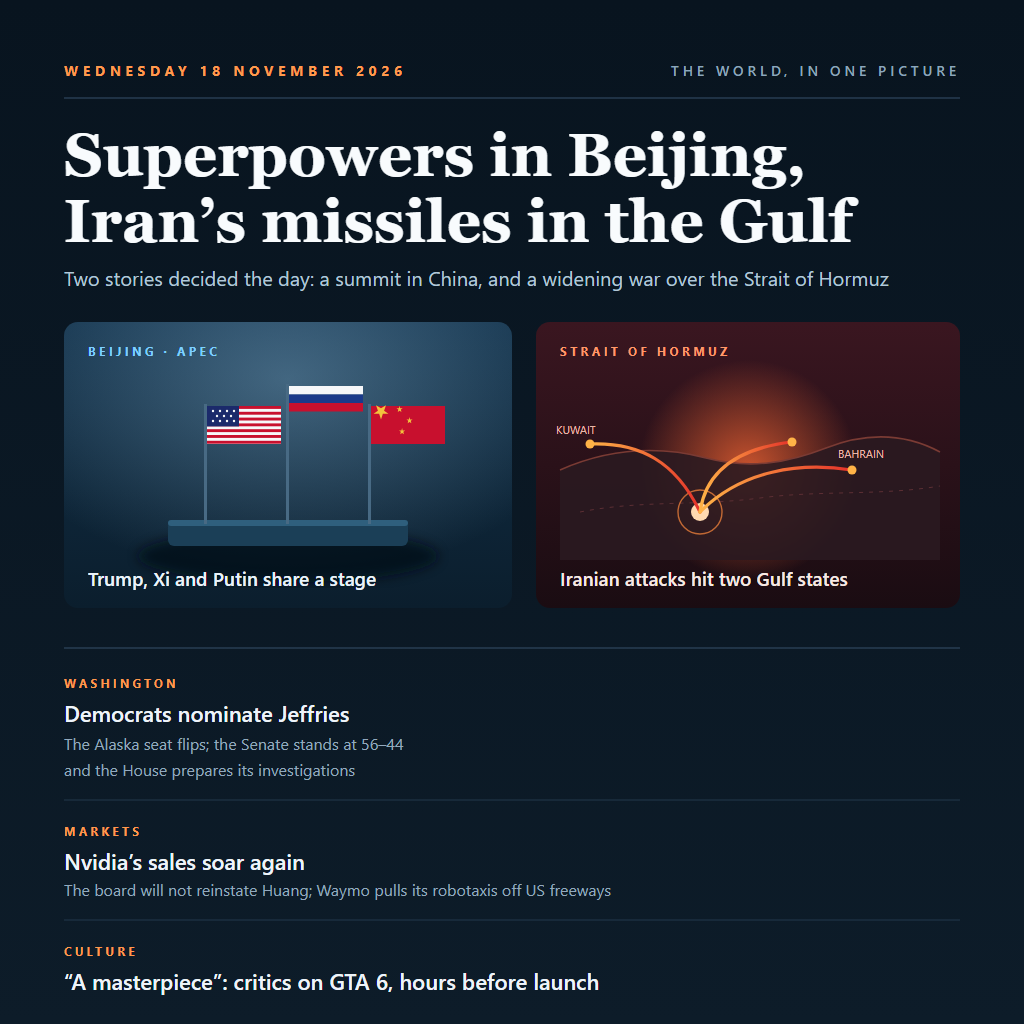
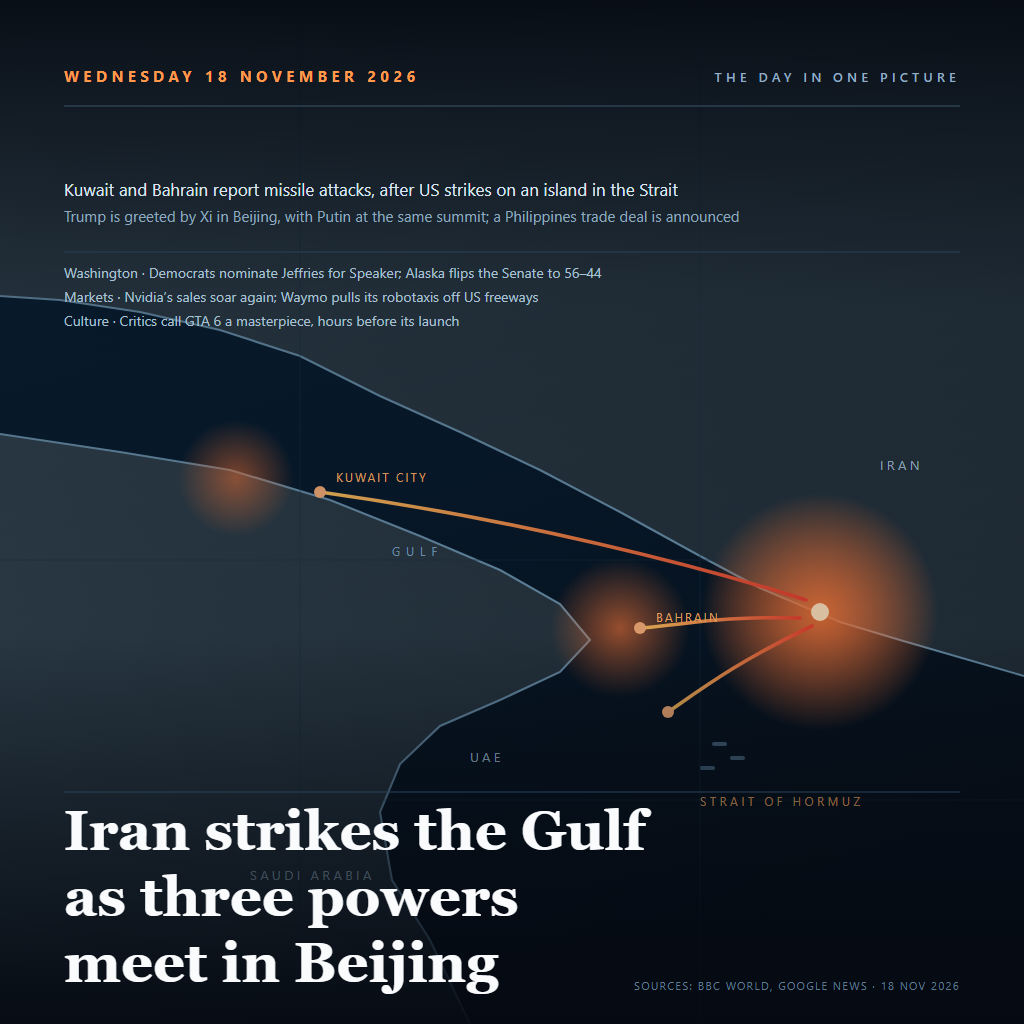
Redraw the plate as a Gulf map: Iran's launch site and the paths to Kuwait and Bahrain

diff --git a/plate.html b/plate.html
@@ -1,0 +1,125 @@
+<!DOCTYPE html>
+<html lang="en">
+<head>
+<meta charset="utf-8">
+<title>The world, 18 November 2026</title>
+<style>
+  @page { size: 1024px 1024px; margin: 0; }
+  html, body { margin: 0; padding: 0; width: 1024px; height: 1024px; overflow: hidden; background: #050a12; }
+</style>
+</head>
+<body>
+<svg xmlns="http://www.w3.org/2000/svg" width="1024" height="1024" viewBox="0 0 1024 1024">
+  <defs>
+    <linearGradient id="water" x1="0" y1="0" x2="0.3" y2="1">
+      <stop offset="0" stop-color="#0a2439"/>
+      <stop offset="0.55" stop-color="#071a2c"/>
+      <stop offset="1" stop-color="#060f19"/>
+    </linearGradient>
+    <linearGradient id="land" x1="0" y1="0" x2="1" y2="1">
+      <stop offset="0" stop-color="#31424e"/>
+      <stop offset="1" stop-color="#222f39"/>
+    </linearGradient>
+    <linearGradient id="hot" x1="0" y1="0" x2="1" y2="0">
+      <stop offset="0" stop-color="#ffc45e"/>
+      <stop offset="1" stop-color="#e8402f"/>
+    </linearGradient>
+    <radialGradient id="flash" cx="0.5" cy="0.5" r="0.5">
+      <stop offset="0" stop-color="#ff7a3a" stop-opacity="0.85"/>
+      <stop offset="1" stop-color="#ff7a3a" stop-opacity="0"/>
+    </radialGradient>
+    <linearGradient id="fade" x1="0" y1="0" x2="0" y2="1">
+      <stop offset="0" stop-color="#050a12" stop-opacity="0.92"/>
+      <stop offset="0.30" stop-color="#050a12" stop-opacity="0.25"/>
+      <stop offset="0.62" stop-color="#050a12" stop-opacity="0.15"/>
+      <stop offset="1" stop-color="#050a12" stop-opacity="0.96"/>
+    </linearGradient>
+    <filter id="soft"><feGaussianBlur stdDeviation="10"/></filter>
+  </defs>
+
+  <rect width="1024" height="1024" fill="url(#water)"/>
+
+  <!-- ------- the gulf: iran across the top, arabia below ------- -->
+  <g>
+    <path d="M0 0 H1024 V676 L900 640 L840 622 L760 588 L700 556 L620 512 L540 470 L460 432
+             L380 396 L300 356 L220 330 L140 312 L60 300 L0 296 Z" fill="url(#land)"/>
+    <path d="M0 296 L60 300 L140 312 L220 330 L300 356 L380 396 L460 432 L540 470 L620 512
+             L700 556 L760 588 L840 622 L900 640 L1024 676" fill="none" stroke="#6b93ae" stroke-width="2.1"/>
+    <path d="M0 434 L120 452 L230 470 L330 500 L420 536 L500 570 L560 604 L590 640 L560 672
+             L500 700 L440 726 L400 764 L380 812 L392 880 L430 940 L470 1024 H0 Z" fill="url(#land)"/>
+    <path d="M0 434 L120 452 L230 470 L330 500 L420 536 L500 570 L560 604 L590 640 L560 672
+             L500 700 L440 726 L400 764 L380 812 L392 880 L430 940 L470 1024" fill="none" stroke="#6b93ae" stroke-width="2.1"/>
+    <g stroke="#1a3346" stroke-width="1" opacity="0.5">
+      <path d="M0 560 H1024"/><path d="M0 800 H1024"/><path d="M300 0 V1024"/><path d="M700 0 V1024"/>
+    </g>
+  </g>
+
+  <!-- ------- strikes, from the iranian coast ------- -->
+  <g>
+    <circle cx="820" cy="612" r="118" fill="url(#flash)"/>
+    <circle cx="820" cy="612" r="120" fill="url(#flash)" opacity="0.5"/>
+    <circle cx="620" cy="628" r="70" fill="url(#flash)" opacity="0.8"/>
+    <circle cx="236" cy="478" r="58" fill="url(#flash)" opacity="0.7"/>
+    <g stroke="url(#hot)" stroke-width="3.6" fill="none" stroke-linecap="round">
+      <path d="M806 600 C700 566 520 520 320 492"/>
+      <path d="M800 618 C720 616 690 624 640 628"/>
+      <path d="M812 626 C740 660 700 690 668 712"/>
+    </g>
+    <g fill="#ffe1bb"><circle cx="820" cy="612" r="9"/></g>
+    <g fill="#ffb27a"><circle cx="320" cy="492" r="6"/><circle cx="640" cy="628" r="6"/><circle cx="668" cy="712" r="6"/></g>
+  </g>
+
+  <!-- ------- place labels ------- -->
+  <g font-family="Segoe UI, Arial, sans-serif" font-size="11.5" letter-spacing="2.2" fill="#ffb86b">
+    <text x="336" y="482">KUWAIT CITY</text>
+    <text x="656" y="622">BAHRAIN</text>
+    <text x="392" y="556" fill="#7fa6c2" letter-spacing="6">GULF</text>
+  </g>
+  <g font-family="Segoe UI, Arial, sans-serif" font-size="13" letter-spacing="3.4" fill="#a7c2d6">
+    <text x="880" y="470">IRAN</text>
+        
+    <text x="700" y="806" fill="#ffb86b" font-size="12">STRAIT OF HORMUZ</text>
+    <text x="250" y="880">SAUDI ARABIA</text>
+    <text x="470" y="762">UAE</text>
+  </g>
+  <g fill="#4d718a" opacity="0.9">
+    <rect x="712" y="742" width="15" height="4" rx="2"/>
+    <rect x="730" y="756" width="15" height="4" rx="2"/>
+    <rect x="700" y="766" width="15" height="4" rx="2"/>
+  </g>
+
+  <rect width="1024" height="1024" fill="url(#fade)"/>
+
+  <!-- ------- masthead ------- -->
+  <g font-family="Segoe UI, Arial, sans-serif">
+    <text x="64" y="82" fill="#ff9a4d" font-size="14.5" letter-spacing="4.8" font-weight="700">WEDNESDAY 18 NOVEMBER 2026</text>
+    <text x="960" y="82" fill="#93aec4" font-size="13" letter-spacing="4.2" text-anchor="end" font-weight="600">THE DAY IN ONE PICTURE</text>
+    <line x1="64" y1="106" x2="960" y2="106" stroke="#38566e" stroke-width="1"/>
+  </g>
+
+  <!-- ------- headline ------- -->
+  <g font-family="Georgia, Times New Roman, serif">
+    <text x="64" y="850" fill="#f9fbfd" font-size="56" font-weight="700">Iran strikes the Gulf</text>
+    <text x="64" y="916" fill="#f9fbfd" font-size="56" font-weight="700">as three powers</text>
+    <text x="64" y="982" fill="#f9fbfd" font-size="56" font-weight="700">meet in Beijing</text>
+  </g>
+
+  <!-- ------- the day's other lines ------- -->
+  <g font-family="Segoe UI, Arial, sans-serif">
+    <text x="64" y="196" fill="#dbe7f0" font-size="17">Kuwait and Bahrain report missile attacks, after US strikes on an island in the Strait</text>
+    <text x="64" y="222" fill="#8ea9bf" font-size="15">Trump is greeted by Xi in Beijing, with Putin at the same summit; a Philippines trade deal is announced</text>
+
+    <line x1="64" y1="252" x2="960" y2="252" stroke="#2a4258" stroke-width="1"/>
+    <line x1="64" y1="792" x2="960" y2="792" stroke="#2a4258" stroke-width="1"/>
+    <g font-size="14" fill="#a9c0d2">
+      <text x="64" y="278">Washington · Democrats nominate Jeffries for Speaker; Alaska flips the Senate to 56–44</text>
+      <text x="64" y="302">Markets · Nvidia’s sales soar again; Waymo pulls its robotaxis off US freeways</text>
+      <text x="64" y="326">Culture · Critics call GTA 6 a masterpiece, hours before its launch</text>
+    </g>
+  </g>
+
+  <!-- ------- source note ------- -->
+  <text x="960" y="990" fill="#5f7b91" font-family="Segoe UI, Arial, sans-serif" font-size="10.5" letter-spacing="1.6" text-anchor="end">SOURCES: BBC WORLD, GOOGLE NEWS · 18 NOV 2026</text>
+</svg>
+</body>
+</html>

diff --git a/README.md b/README.md
@@ -7,7 +7,7 @@
 An entry for [make.fun's](https://make.fun) `news-image-20261118` bounty
 ([bounty page](https://make.fun/bounty/news-image-20261118)): one image that
 sums up Wednesday 18 November 2026's world news.
-
+  
 The day had two stories above all others:
 
 - **Beijing.** Donald Trump, Xi Jinping and Vladimir Putin shared a stage at the
@@ -15,7 +15,9 @@ The day had two stories above all others:
 - **The Gulf.** Iran attacked Kuwait and Bahrain after US strikes on an island in
   the Strait of Hormuz, widening the war over the Strait.
 
-The plate gives those two the top half. Beneath them: Democrats nominating Hakeem
+Round 2 plate: the Gulf drawn as a map plate, with the launch site inside Iran and three
+trajectories running to Kuwait City and Bahrain, and the Beijing summit carried by the
+headline. The plate gives those two the top half. Beneath them: Democrats nominating Hakeem
 Jeffries for Speaker with the Alaska seat flipping the Senate to 56–44; Nvidia's
 sales soaring while the board keeps Huang out and Waymo pulls its robotaxis off
 US freeways; and critics calling GTA 6 a masterpiece hours before its launch.
